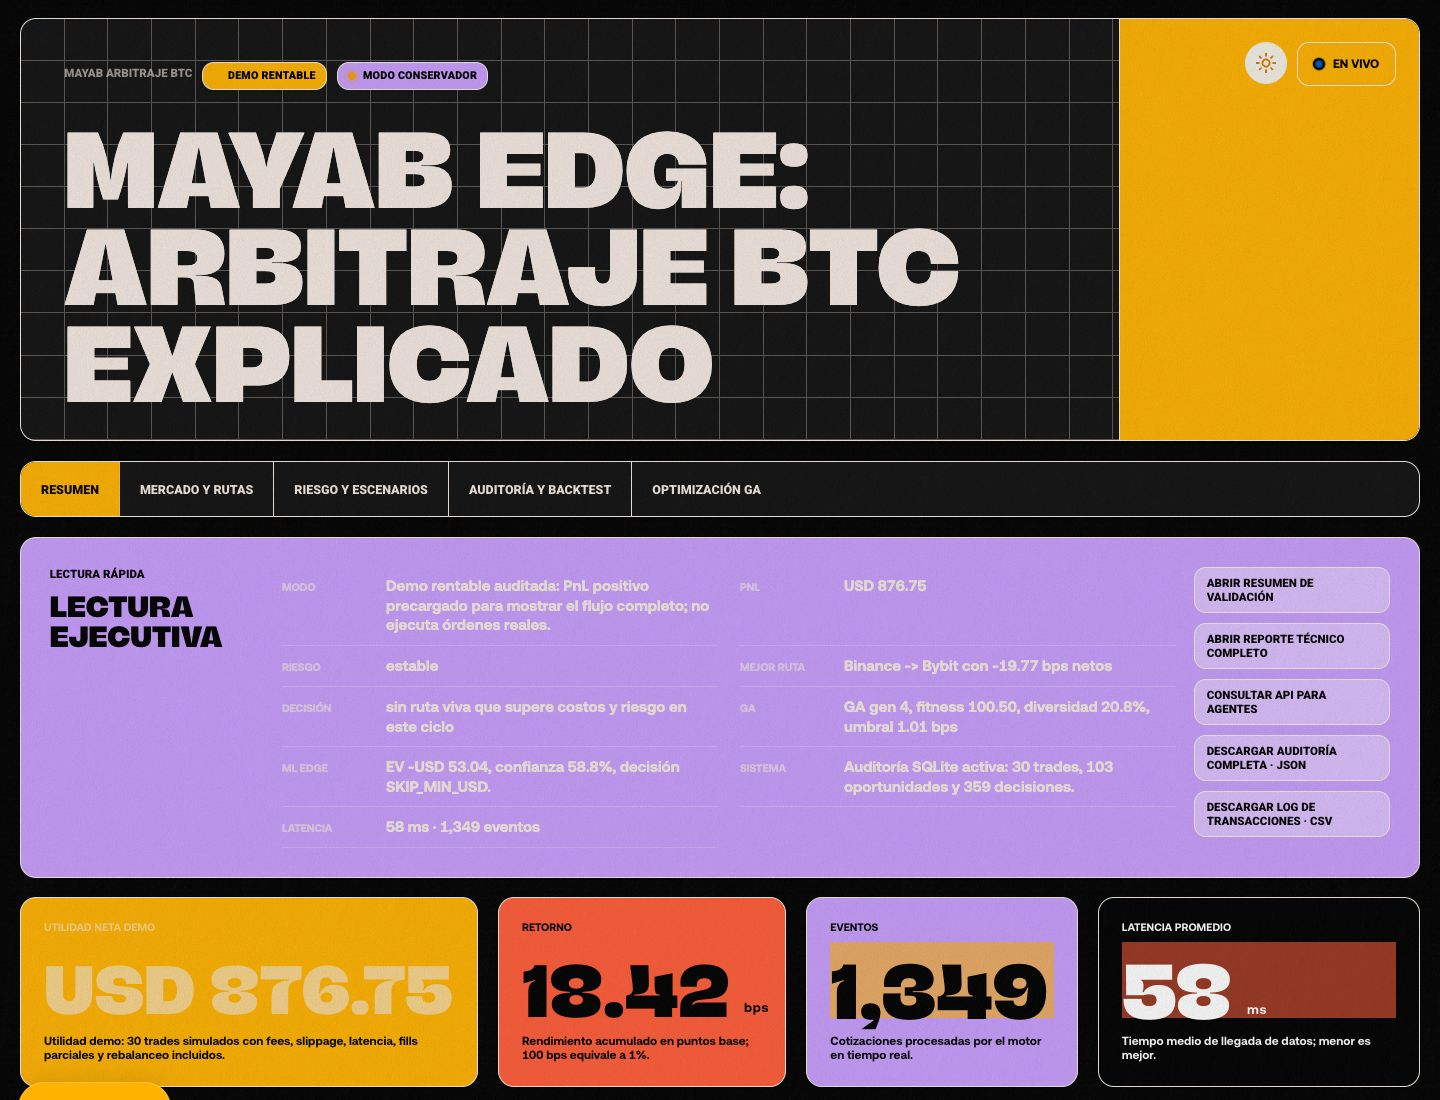
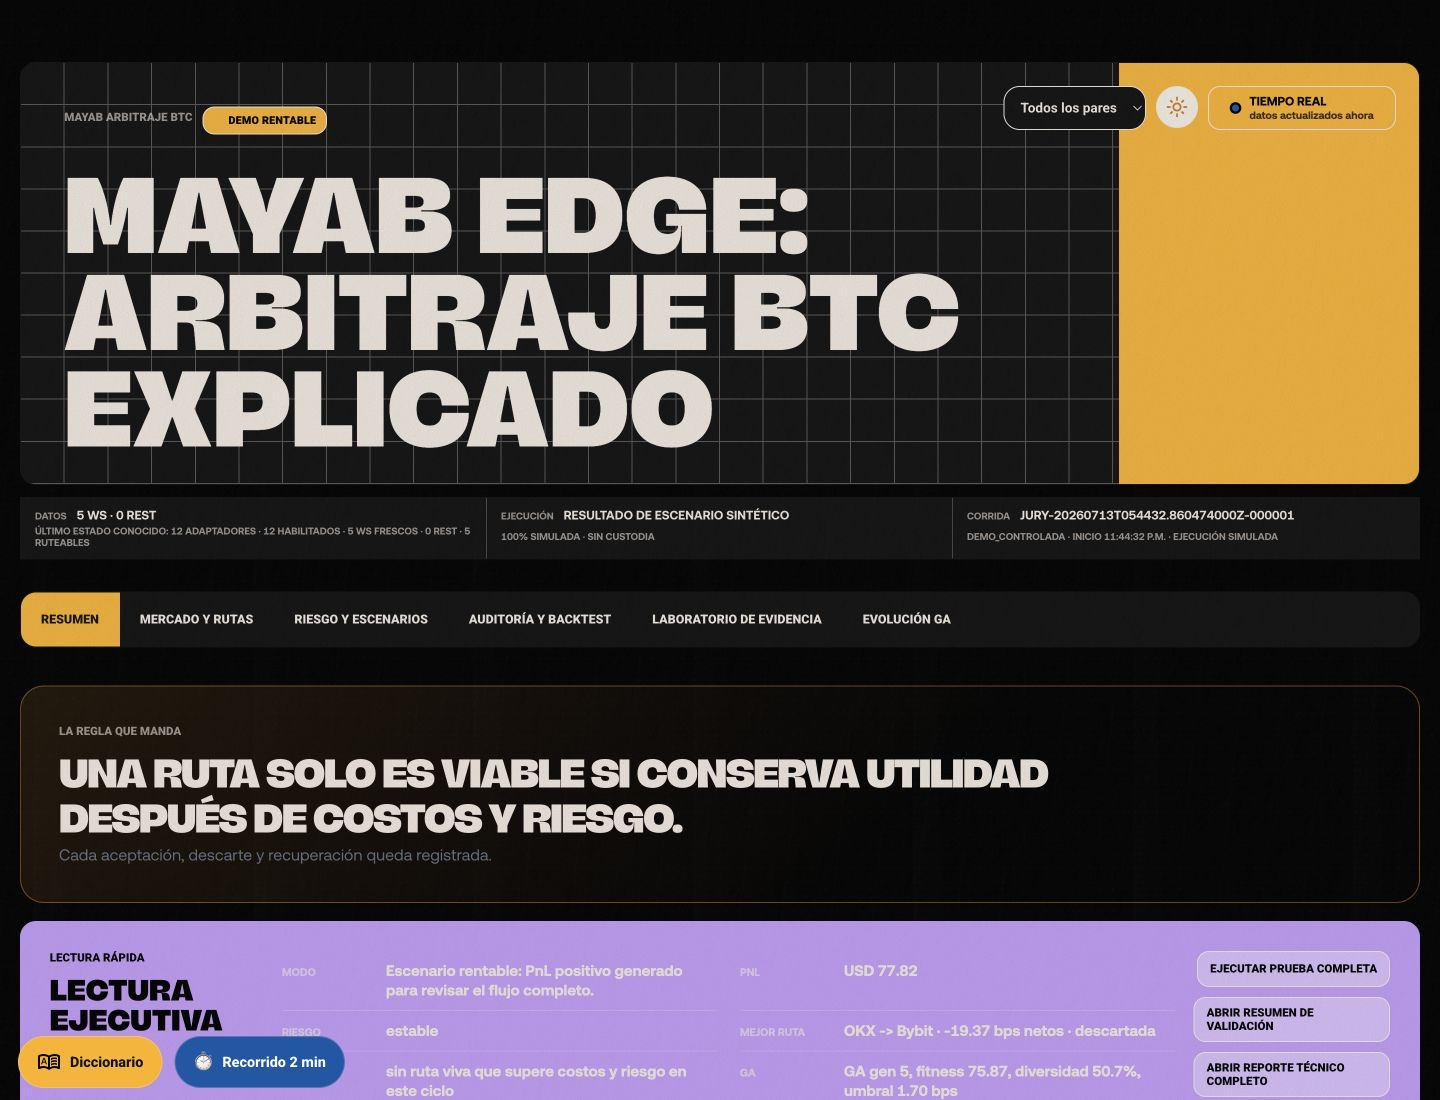
Cambio de nombre y fix de ultimo minuto

diff --git a/internal/webui/web/app.js b/internal/webui/web/app.js
@@ -1690,7 +1690,7 @@ async function ejecutarDemoFinal() {
     if (minuteStatus) {
       minuteStatus.textContent = lista
         ? `12/12 validaciones correctas · prueba ${body?.corridaId || "actual"} · reporte SHA-256 listo.`
-        : `${checks.passed || 0}/${checks.total || 12} validaciones correctas · abre preflight para revisar las pendientes.`;
+        : `BLOCKED · ${checks.passed || 0}/${checks.total || 12} checks · abre preflight para revisar las pendientes.`;
       minuteStatus.classList.toggle("ok", lista);
     }
     preflightCache = body?.preflight || null;

diff --git a/internal/webui/web/styles.css b/internal/webui/web/styles.css
@@ -729,7 +729,7 @@ button {
     width: 100%;
     min-height: 58px;
     margin: 10px 0 0;
-    padding: 9px 14px;
+    padding: 9px 14px 12px;
     display: flex;
     align-items: center;
     justify-content: space-between;

diff --git a/README.md b/README.md
@@ -20,6 +20,21 @@ hardware/dataset. La metodología y sus límites están en
 > hardware, commit, comando y límites están en
 > [BENCHMARKING.md](BENCHMARKING.md).
 
+### Cómo leer “millones” sin confundir volumen con velocidad
+
+**3.6 millones de observaciones históricas describen el tamaño de un corpus, no
+la rapidez de un motor.** La comparación válida exige el mismo dataset, hardware
+y recorrido de código. Mayab publica ambas magnitudes por separado: el contador
+acumulado dice cuánto trabajo realizó el proceso y el throughput dice qué tan
+rápido lo realizó. A la tasa medida arriba, **3.6 millones de iteraciones de este
+mismo benchmark equivalen a ~14.7 segundos de cómputo**; no se afirma que una
+observación de otro sistema sea equivalente a una iteración de Mayab.
+
+La cifra se obtuvo en una laptop Apple M4, no en infraestructura escogida para
+maximizar el resultado. Una instancia con otra asignación de CPU o memoria puede
+dar más o menos rendimiento y debe volver a medirse: **la ventaja demostrada es
+que Mayab reporta tasa, latencia y trabajo acumulado, no sólo un número grande.**
+
 En el dashboard la frase no queda congelada: muestra el total acumulado de
 rutas evaluadas por **ese proceso**, su cómputo p50 y los eventos/s observados.
 Si Mayab permanece corriendo, el contador crece con trabajo realizado; un
@@ -40,12 +55,12 @@ La cifra operacional principal no es un spread bruto: es **cero exposición resi
 
 [Aplicación pública en Cloud Run](https://mayab-btc-arbitrage-3erllnacaa-uc.a.run.app)
 
-[Repositorio público en GitHub](https://github.com/raulivan1200/mayab-btc-arbitrage)
+[Repositorio público en GitHub](https://github.com/raulivan1200/mayab-rust-coding-challenge-mx)
 
-[![Rust CI](https://github.com/raulivan1200/mayab-btc-arbitrage/actions/workflows/rust.yml/badge.svg)](https://github.com/raulivan1200/mayab-btc-arbitrage/actions/workflows/rust.yml)
-[![Security](https://github.com/raulivan1200/mayab-btc-arbitrage/actions/workflows/security.yml/badge.svg)](https://github.com/raulivan1200/mayab-btc-arbitrage/actions/workflows/security.yml)
-[![Coverage](https://github.com/raulivan1200/mayab-btc-arbitrage/actions/workflows/coverage.yml/badge.svg)](https://github.com/raulivan1200/mayab-btc-arbitrage/actions/workflows/coverage.yml)
-[![Release](https://github.com/raulivan1200/mayab-btc-arbitrage/actions/workflows/release.yml/badge.svg)](https://github.com/raulivan1200/mayab-btc-arbitrage/actions/workflows/release.yml)
+[![Rust CI](https://github.com/raulivan1200/mayab-rust-coding-challenge-mx/actions/workflows/rust.yml/badge.svg)](https://github.com/raulivan1200/mayab-rust-coding-challenge-mx/actions/workflows/rust.yml)
+[![Security](https://github.com/raulivan1200/mayab-rust-coding-challenge-mx/actions/workflows/security.yml/badge.svg)](https://github.com/raulivan1200/mayab-rust-coding-challenge-mx/actions/workflows/security.yml)
+[![Coverage](https://github.com/raulivan1200/mayab-rust-coding-challenge-mx/actions/workflows/coverage.yml/badge.svg)](https://github.com/raulivan1200/mayab-rust-coding-challenge-mx/actions/workflows/coverage.yml)
+[![Release](https://github.com/raulivan1200/mayab-rust-coding-challenge-mx/actions/workflows/release.yml/badge.svg)](https://github.com/raulivan1200/mayab-rust-coding-challenge-mx/actions/workflows/release.yml)
 ![Rust](https://img.shields.io/badge/Rust-2021-b7410e)
 ![Modo](https://img.shields.io/badge/ejecuci%C3%B3n-100%25%20simulada-2563eb)
 
@@ -60,8 +75,8 @@ Abre la [aplicación pública](https://mayab-btc-arbitrage-3erllnacaa-uc.a.run.a
 Requiere una toolchain estable de Rust.
 
 ```bash
-git clone https://github.com/raulivan1200/mayab-btc-arbitrage.git
-cd mayab-btc-arbitrage
+git clone https://github.com/raulivan1200/mayab-rust-coding-challenge-mx.git
+cd mayab-rust-coding-challenge-mx
 cargo run
 ```
 
@@ -811,6 +826,8 @@ se valida con Ed25519 antes de leerla. El bot publica `/estado`, `/resumen`,
 `/demo-rentable`, `/mayab pregunta:<texto>` y `/ask pregunta:<texto>`; los dos
 últimos usan NVIDIA NIM como agente con herramientas locales sobre la
 simulación.
+
+![Bot de Mayab respondiendo comandos en Discord](screenshots/discord-bot.png)
 
 Perfil sugerido en Discord Developer Portal:
 